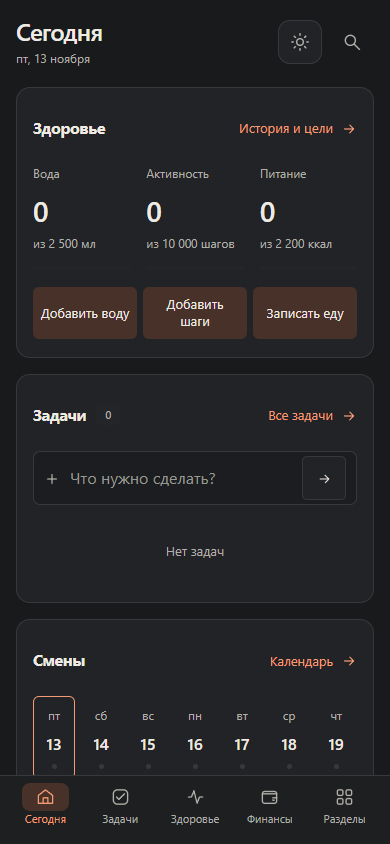
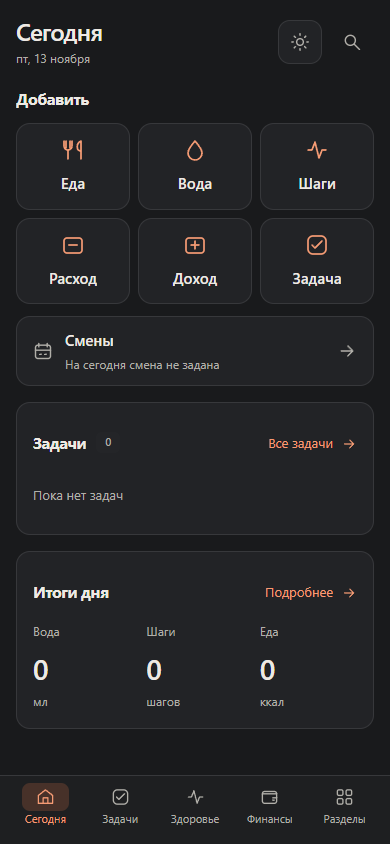
Simplify Today with visible food, water, task and finance actions (3.4)

diff --git a/index.html b/index.html
@@ -21,8 +21,8 @@
     <link rel="apple-touch-icon" href="icon-512.png">
     <link rel="icon" type="image/svg+xml" href="icon.svg">
     <script defer src="vendor/crypto-js.min.js"></script>
-    <link rel="stylesheet" href="styles.css?v=3.3">
-    <link rel="stylesheet" href="experience.css?v=3.3">
+    <link rel="stylesheet" href="styles.css?v=3.4">
+    <link rel="stylesheet" href="experience.css?v=3.4">
 </head>
 <body>
 
@@ -54,13 +54,31 @@
     </div>
 
     <main id="dashboard-page" class="page">
+        <section class="home-capture" aria-labelledby="capture-title">
+            <h2 id="capture-title">Добавить</h2>
+            <div class="home-actions">
+                <button onclick="openTodayHealth('food')" aria-label="Записать еду"><span data-icon="food"></span><span>Еда</span></button>
+                <button onclick="openDailyMetric('water',true)" aria-label="Добавить воду"><span data-icon="drop"></span><span>Вода</span></button>
+                <button onclick="openDailyMetric('steps',true)" aria-label="Добавить шаги"><span data-icon="activity"></span><span>Шаги</span></button>
+                <button onclick="openHomeBudget('expense')" aria-label="Добавить расход"><span data-icon="expense"></span><span>Расход</span></button>
+                <button onclick="openHomeBudget('income')" aria-label="Добавить доход"><span data-icon="income"></span><span>Доход</span></button>
+                <button onclick="openFocusTask()" aria-label="Добавить задачу"><span data-icon="check"></span><span>Задача</span></button>
+            </div>
+        </section>
+        <button class="home-shifts" onclick="showSection('calendar-page')"><span data-icon="calendar"></span><span><strong>Смены</strong><small id="shift-description"></small></span><span data-icon="arrow"></span></button>
         <div class="workspace-grid">
-            <section class="card focus-card"><div class="section-top"><h2>Задачи <span id="focus-count" class="count-badge">0</span></h2><button class="text-button" onclick="showSection('planner-page')">Все задачи <span data-icon="arrow"></span></button></div><div id="focus-list"></div><form class="focus-form" onsubmit="addFocusTask(event)"><span data-icon="plus"></span><input id="focus-input" placeholder="Что нужно сделать?" aria-label="Новая задача" maxlength="500" autocomplete="off"><button type="submit" aria-label="Добавить задачу"><span data-icon="arrow"></span></button></form></section>
-            <section class="card rhythm-card"><div class="section-top"><h2>Смены</h2><button class="text-button" onclick="showSection('calendar-page')">Календарь <span data-icon="arrow"></span></button></div><div class="week-strip" id="week-strip"></div><p id="shift-description" class="helper-description"></p></section>
-            <section class="card daily-health"><div class="section-top"><h2>Здоровье</h2><button class="text-button" onclick="openTodayHealth()">История и цели <span data-icon="arrow"></span></button></div><div class="health-metrics"><div class="health-metric water"><span class="metric-label">Вода</span><strong id="daily-water">0</strong><small id="daily-water-goal"></small><div class="progress-track" role="progressbar" aria-label="Вода: процент цели" aria-valuemin="0" aria-valuemax="100" aria-valuenow="0"><div id="daily-water-bar" class="progress-fill"></div></div></div><div class="health-metric steps"><span class="metric-label">Активность</span><strong id="daily-steps">0</strong><small id="daily-steps-goal"></small><div class="progress-track" role="progressbar" aria-label="Активность: процент цели" aria-valuemin="0" aria-valuemax="100" aria-valuenow="0"><div id="daily-steps-bar" class="progress-fill"></div></div></div><div class="health-metric cal"><span class="metric-label">Питание</span><strong id="daily-cal">0</strong><small id="daily-cal-goal"></small><div class="progress-track" role="progressbar" aria-label="Питание: процент цели" aria-valuemin="0" aria-valuemax="100" aria-valuenow="0"><div id="daily-cal-bar" class="progress-fill"></div></div></div></div><div class="quick-capture"><button onclick="openDailyMetric('water',true)">Добавить воду</button><button onclick="openDailyMetric('steps',true)">Добавить шаги</button><button onclick="openTodayHealth('food')">Записать еду</button></div></section>
-            <section class="card month-card"><div class="section-top"><h2>Финансы</h2><span id="finance-month" class="quiet-badge"></span></div><div class="money-line"><span>Доходы</span><strong id="finance-income">0 ₽</strong></div><div class="money-line"><span>Расходы</span><strong id="finance-expense">0 ₽</strong></div><button class="text-button" onclick="showSection('budget-page')">Перейти к финансам <span data-icon="arrow"></span></button></section>
+            <section class="card focus-card"><div class="section-top"><h2>Задачи <span id="focus-count" class="count-badge">0</span></h2><button class="text-button" onclick="showSection('planner-page')">Все задачи <span data-icon="arrow"></span></button></div><div id="focus-list"></div></section>
+            <section class="card daily-health"><div class="section-top"><h2>Итоги дня</h2><button class="text-button" onclick="openTodayHealth()">Подробнее <span data-icon="arrow"></span></button></div><div class="health-metrics"><div class="health-metric"><span class="metric-label">Вода</span><strong id="daily-water">0</strong><small>мл</small></div><div class="health-metric"><span class="metric-label">Шаги</span><strong id="daily-steps">0</strong><small>шагов</small></div><div class="health-metric"><span class="metric-label">Еда</span><strong id="daily-cal">0</strong><small>ккал</small></div></div></section>
         </div>
     </main>
+
+    <dialog id="task-dialog" class="metric-dialog" aria-labelledby="task-dialog-title">
+        <form onsubmit="addFocusTask(event)">
+            <div class="section-top"><h2 id="task-dialog-title">Новая задача</h2><button type="button" class="icon-button" aria-label="Закрыть" onclick="document.getElementById('task-dialog').close()"><span data-icon="close"></span></button></div>
+            <label for="focus-input">Что нужно сделать?</label><input id="focus-input" placeholder="Например: забрать заказ" maxlength="500" autocomplete="off" required>
+            <button type="submit" class="btn">Добавить задачу</button>
+        </form>
+    </dialog>
 
     <div id="more-page" class="page"></div>
 
@@ -586,10 +604,10 @@
         </div>
     </div>
 
-    <script defer src="food-config.js?v=3.3"></script>
-    <script defer src="food-ai.js?v=3.3"></script>
-    <script defer src="app.js?v=3.3"></script>
-    <script defer src="workspace.js?v=3.3"></script>
-    <script defer src="experience.js?v=3.3"></script>
+    <script defer src="food-config.js?v=3.4"></script>
+    <script defer src="food-ai.js?v=3.4"></script>
+    <script defer src="app.js?v=3.4"></script>
+    <script defer src="workspace.js?v=3.4"></script>
+    <script defer src="experience.js?v=3.4"></script>
 </body>
 </html>

diff --git a/experience.css b/experience.css
@@ -44,47 +44,33 @@ body.is-unlocked { padding:32px 32px 48px 244px; }
 .workspace-grid>.card { margin:0; }
 .focus-card { grid-column:1; grid-row:1; display:flex; flex-direction:column; }
 .daily-health { grid-column:2; grid-row:1; }
-.rhythm-card { grid-column:1; grid-row:2; }
-.month-card { grid-column:2; grid-row:2; }
+.home-capture { margin-bottom:12px; }
+.home-capture h2 { margin:0 0 12px; font-size:16px; }
+.home-actions { display:grid; grid-template-columns:repeat(6,minmax(0,1fr)); gap:10px; }
+.home-actions button { display:flex; flex-direction:column; align-items:center; justify-content:center; gap:10px; min-height:94px; padding:14px 8px; border:1px solid var(--border); border-radius:14px; background:var(--card-bg); color:var(--text-main); font-size:15px; font-weight:550; }
+.home-actions button>span:first-child { display:flex; color:var(--accent); }
+.home-actions svg { width:24px; height:24px; }
+.home-actions button:hover,.home-shifts:hover { background:var(--hover-bg); }
+.home-actions button:active { transform:scale(.97); }
+.home-shifts { display:flex; align-items:center; gap:12px; width:100%; min-height:64px; margin:0 0 20px; padding:12px 16px; text-align:left; color:var(--text-main); background:var(--card-bg); border:1px solid var(--border); border-radius:14px; }
+.home-shifts>span:first-child,.home-shifts>span:last-child { display:flex; color:var(--text-muted); }
+.home-shifts>span:last-child { margin-left:auto; }
+.home-shifts svg { width:20px; height:20px; }
+.home-shifts strong { display:block; font-size:15px; font-weight:550; }
+.home-shifts small { display:block; margin-top:3px; font-size:12px; color:var(--text-muted); }
 #focus-list { flex:1; }
+.focus-card .section-top,.daily-health .section-top { margin-bottom:8px; }
+.focus-card .empty-state { padding:12px 0; text-align:left; }
 .empty-state { padding:24px 0; color:var(--text-muted); font-size:13px; text-align:center; }
 .empty-state h3 { font-size:13px; font-weight:500; }
 .empty-state p { margin-top:6px; font-size:12px; }
 .empty-symbol { display:none; }
-.focus-form { display:flex; align-items:center; gap:10px; padding:0 10px; border:1px solid var(--border); border-radius:7px; margin-top:18px; background:var(--input-bg); color:var(--text-muted); }
-.focus-form>span svg { width:16px; }
-.focus-form input { flex:1; border:0; margin:0; padding:12px 0; background:none; font-size:13px; }
-.focus-form button { width:30px; height:30px; background:var(--card-bg); border:1px solid var(--border); color:var(--text-main); border-radius:5px; }
-.focus-form button svg { width:15px; }
 .focus-task { display:flex; align-items:center; gap:12px; padding:12px 0; margin:0; border-bottom:1px solid var(--border); color:var(--text-main); cursor:pointer; }
 .focus-task span { overflow-wrap:anywhere; }
-.week-strip { display:grid; grid-template-columns:repeat(7,minmax(0,1fr)); gap:5px; }
-.week-day { display:flex; flex-direction:column; align-items:center; gap:8px; padding:9px 2px; background:none; border:1px solid transparent; border-radius:6px; color:var(--text-main); }
-.week-day span { color:var(--text-muted); font-size:12px; }
-.week-day strong { font-size:16px; font-weight:500; }
-.week-day.is-today { border-color:var(--accent); }
-.shift-dot { display:inline-block; width:5px; height:5px; border-radius:50%; background:var(--border); }
-.shift-dot.day { background:var(--warning); }
-.shift-dot.night { background:var(--purple); }
-.shift-dot.off { background:var(--success); }
-.rhythm-card .helper-description { margin:16px 0 0; font-size:12px; }
 .health-metrics { display:grid; grid-template-columns:repeat(3,minmax(0,1fr)); gap:18px; }
-.health-icon { display:none; }
 .metric-label { display:block; color:var(--text-muted); font-size:12px; }
 .health-metric>strong { display:block; font-size:25px; font-weight:550; letter-spacing:-.6px; margin:8px 0 2px; }
 .health-metric small { display:block; color:var(--text-muted); font-size:11px; }
-.health-metric .progress-track { height:3px; margin-top:14px; }
-.water .progress-fill { background:#8aafc0; }
-.steps .progress-fill { background:#8eab85; }
-.cal .progress-fill { background:#d6af86; }
-.quick-capture { display:flex; gap:8px; margin-top:22px; }
-.quick-capture button { flex:1; min-height:38px; background:var(--card-bg); border:1px solid var(--border); border-radius:6px; padding:8px 4px; color:var(--text-main); font-size:12px; }
-.quick-capture button:hover { background:var(--hover-bg); }
-.money-line { display:flex; align-items:center; justify-content:space-between; gap:12px; padding:9px 0; font-size:13px; }
-.money-line>span { color:var(--text-muted); }
-.money-line strong { font-size:18px; font-weight:550; }
-.money-icon { display:none; }
-.month-card>.text-button { margin-top:14px; }
 .quiet-badge { background:none; font-size:12px; padding:0; }
 .task-toolbar { display:flex; align-items:center; gap:16px; margin-bottom:20px; }
 .task-toolbar .segmented-control { flex:1; margin:0; }
@@ -151,7 +137,6 @@ kbd { border:1px solid var(--border); border-radius:4px; padding:2px 5px; font-s
 .secondary-settings summary { cursor:pointer; font-size:15px; font-weight:600; }
 .details-content { padding-top:18px; }
 .task-entry { margin-bottom:16px; }
-.focus-form { margin:0 0 12px; }
 .theme-picker .segmented-control button { min-height:44px; }
 .settings-save { position:sticky; top:max(8px,env(safe-area-inset-top)); z-index:20; margin:0; box-shadow:0 0 0 6px var(--bg-base); }
 .metric-dialog { max-height:calc(var(--visible-height,100dvh) - 32px); overflow-y:auto; }
@@ -176,7 +161,7 @@ html { scroll-padding-bottom:110px; }
   #toast-box { bottom:90px; }
 }
 @media(max-width:620px) {
-  input,select,textarea,.focus-form input,.task-toolbar input { font-size:16px!important; }
+  input,select,textarea,.task-toolbar input { font-size:16px!important; }
   button,.btn,.text-button,.icon-button,.icon-btn-sm,.del-btn,.segmented-control button,.metric-presets button { min-height:44px; }
   .icon-button,.icon-btn-sm,.del-btn { min-width:44px; }
   .btn { padding:12px 14px; font-size:15px; }
@@ -195,17 +180,12 @@ html { scroll-padding-bottom:110px; }
   .page-heading h1 { font-size:24px; }
   .today-chip { font-size:12px; }
   .workspace-grid { display:flex; flex-direction:column; gap:16px; }
-  .focus-card { order:1; }
-  .daily-health { order:0; }
-  .rhythm-card { order:2; }
-  .month-card { order:3; }
+  .home-actions { grid-template-columns:repeat(3,minmax(0,1fr)); gap:8px; }
+  .home-actions button { min-height:84px; }
+  .home-shifts { margin-bottom:16px; }
   .health-metrics { gap:16px; }
-  .quick-capture { margin-top:18px; gap:6px; }
-  .quick-capture button { font-size:13px; min-height:48px; padding:8px 6px; line-height:1.3; background:var(--active-bg); border-color:transparent; color:var(--text-main); }
   .health-metric small { font-size:12px; }
   .health-metric>strong { font-size:28px; }
-  .focus-form button { width:44px; height:44px; flex-shrink:0; }
-  .focus-form input { padding:14px 0; }
   .task-toolbar { flex-direction:column; align-items:stretch; gap:12px; }
   .tools-grid { grid-template-columns:1fr; }
   #health-page.active,#settings-page.active,#calendar-page.active { grid-template-columns:1fr; }

diff --git a/workspace.js b/workspace.js
@@ -54,7 +54,6 @@ function mountWorkspace() {
     const history = document.getElementById('daily-history-list').closest('.card');
     history.classList.add('health-history');
     document.getElementById('health-page').querySelector('.card').after(history);
-    document.querySelector('.focus-card .section-top').after(document.querySelector('.focus-form'));
     const saveSettingsButton = document.querySelector('#settings-page > button[onclick="saveSettings()"]');
     saveSettingsButton.classList.add('settings-save');
     document.querySelector('#settings-page .page-heading').after(saveSettingsButton);
@@ -90,13 +89,22 @@ function focusBudgetEntry(type) {
     document.getElementById('tx-amount').focus({preventScroll:true});
 }
 
+function openHomeBudget(type) {
+    if (!masterKey) return;
+    showSection('budget-page');
+    document.getElementById('tx-date').value = getFormattedDate(new Date());
+    focusBudgetEntry(type);
+}
+
+function openFocusTask() {
+    if (!masterKey) return;
+    document.getElementById('task-dialog').showModal();
+    document.getElementById('focus-input').focus();
+}
+
 function getWorkspaceSummary(source, date) {
-    const month = date.slice(0, 7);
-    const transactions = (source.budget?.transactions || []).filter(t => t.date?.startsWith(month));
-    const income = transactions.filter(t => t.type === 'income').reduce((s,t) => s + Number(t.amount || 0), 0);
-    const expense = transactions.filter(t => t.type !== 'income').reduce((s,t) => s + Number(t.amount || 0), 0);
     const activeTasks = (source.tasks || []).map((task, index) => ({...task, index})).filter(t => !t.done);
-    return { income, expense, balance: income - expense, activeTasks, day: source.days?.[date] || {}, shift: source.shifts?.[date] || '' };
+    return { activeTasks, day: source.days?.[date] || {}, shift: source.shifts?.[date] || '' };
 }
 
 function renderWorkspace() {
@@ -104,27 +112,11 @@ function renderWorkspace() {
     const summary = getWorkspaceSummary(data, today);
     document.getElementById('helper-greeting').textContent = new Date().toLocaleDateString('ru-RU', {day:'numeric',month:'long',weekday:'short'});
     document.getElementById('focus-count').textContent = summary.activeTasks.length;
-    document.getElementById('focus-list').innerHTML = summary.activeTasks.length ? summary.activeTasks.slice(0,4).map(t => `<label class="focus-task"><input type="checkbox" onchange="toggleWorkspaceTask(${t.index})"><span>${escapeHtml(t.text)}</span></label>`).join('') : '<p class="empty-state">Нет задач</p>';
-    document.getElementById('finance-income').textContent = formatHelperMoney(summary.income);
-    document.getElementById('finance-expense').textContent = formatHelperMoney(summary.expense);
-    document.getElementById('finance-month').textContent = new Date().toLocaleDateString('ru-RU',{month:'long'});
-    const profile = data.profile || {};
-    const metrics = [['water',summary.day.water || 0,profile.targetWater || 2500,'мл'],['steps',summary.day.steps || 0,profile.targetSteps || 10000,'шагов'],['cal',summary.day.calories || 0,profile.targetCal || 2200,'ккал']];
-    for (const [key,value,target,unit] of metrics) {
+    document.getElementById('focus-list').innerHTML = summary.activeTasks.length ? summary.activeTasks.slice(0,3).map(t => `<label class="focus-task"><input type="checkbox" onchange="toggleWorkspaceTask(${t.index})"><span>${escapeHtml(t.text)}</span></label>`).join('') : '<p class="empty-state">Пока нет задач</p>';
+    const metrics = [['water',summary.day.water || 0],['steps',summary.day.steps || 0],['cal',summary.day.calories || 0]];
+    for (const [key,value] of metrics) {
         document.getElementById(`daily-${key}`).textContent = new Intl.NumberFormat('ru-RU').format(value);
-        document.getElementById(`daily-${key}-goal`).textContent = `из ${new Intl.NumberFormat('ru-RU').format(target)} ${unit}`;
-        const percent = Math.min(100, Math.max(0, value / target * 100));
-        const progress = document.getElementById(`daily-${key}-bar`);
-        progress.style.width = `${percent}%`;
-        progress.parentElement.setAttribute('aria-valuenow', Math.round(percent));
     }
-    const week = [];
-    for (let offset = 0; offset < 7; offset++) {
-        const day = new Date(); day.setDate(day.getDate() + offset);
-        const value = data.shifts?.[getFormattedDate(day)];
-        week.push(`<button class="week-day ${offset === 0 ? 'is-today' : ''}" onclick="showSection('calendar-page')" aria-label="${day.toLocaleDateString('ru-RU')} — ${({day:'Дневная смена',night:'Ночная смена',off:'Выходной'})[value] || 'Без смены'}"><span>${day.toLocaleDateString('ru-RU',{weekday:'short'})}</span><strong>${day.getDate()}</strong><i class="shift-dot ${value || 'none'}"></i></button>`);
-    }
-    document.getElementById('week-strip').innerHTML = week.join('');
     document.getElementById('shift-description').textContent = ({day:'Дневная смена',night:'Ночная смена',off:'Выходной'})[summary.shift] || 'На сегодня смена не задана';
     document.getElementById('task-nav-count').textContent = summary.activeTasks.length || '';
 }
@@ -133,7 +125,7 @@ function addFocusTask(event) {
     event.preventDefault();
     const input = document.getElementById('focus-input');
     const text = input.value.trim();
-    if (createTask(text)) { input.value = ''; renderWorkspace(); showToast('Задача добавлена'); }
+    if (createTask(text)) { input.value = ''; document.getElementById('task-dialog').close(); renderWorkspace(); showToast('Задача добавлена'); }
 }
 function toggleWorkspaceTask(index) { toggleTask(index); showToast('Задача выполнена'); }
 function setTaskFilter(filter) { taskFilter = filter; renderPlanner(); }

diff --git a/experience.js b/experience.js
@@ -1,6 +1,8 @@
 'use strict';
 
 const helperIcons = {
+    expense: '<rect x="3" y="5" width="18" height="15" rx="3"/><path d="M8 12h8"/>',
+    income: '<rect x="3" y="5" width="18" height="15" rx="3"/><path d="M8 12h8m-4-4v8"/>',
     moon: '<path d="M20 14a8 8 0 0 1-10-10 8 8 0 1 0 10 10Z"/>',
     sun: '<circle cx="12" cy="12" r="4"/><path d="M12 2v2m0 16v2M2 12h2m16 0h2M5 5l1.5 1.5m11 11L19 19M5 19l1.5-1.5m11-11L19 5"/>',
     eye: '<path d="M2 12s4-7 10-7 10 7 10 7-4 7-10 7S2 12 2 12Z"/><circle cx="12" cy="12" r="3"/>',
@@ -218,7 +220,6 @@ function renderExperience(pageId) {
     renderWorkspace();
 
 }
-function formatHelperMoney(value) { return new Intl.NumberFormat('ru-RU', { style: 'currency', currency: 'RUB', maximumFractionDigits: 0 }).format(value); }
 
 
 setupExperience();

diff --git a/sw.js b/sw.js
@@ -1,15 +1,15 @@
-const CACHE_VERSION = 'helper-v3.3';
+const CACHE_VERSION = 'helper-v3.4';
 const PRECACHE = [
   './',
   './index.html',
   './manifest.json',
-  './styles.css?v=3.3',
-  './experience.css?v=3.3',
-  './app.js?v=3.3',
-  './food-config.js?v=3.3',
-  './food-ai.js?v=3.3',
-  './experience.js?v=3.3',
-  './workspace.js?v=3.3',
+  './styles.css?v=3.4',
+  './experience.css?v=3.4',
+  './app.js?v=3.4',
+  './food-config.js?v=3.4',
+  './food-ai.js?v=3.4',
+  './experience.js?v=3.4',
+  './workspace.js?v=3.4',
   './icon.svg',
   './icon-512.png',
   './vendor/crypto-js.min.js'

diff --git a/app.js b/app.js
@@ -191,6 +191,7 @@ let data = {
         function lockVault() {
             cancelFoodAnalysis();
             document.getElementById('metric-dialog')?.close();
+            document.getElementById('task-dialog')?.close();
             metricEntry = null;
             masterKey = "";
             data = {

diff --git a/README.md b/README.md
@@ -1,4 +1,4 @@
-# Helper 3.3
+# Helper 3.4
 
 Личное пространство для задач, здоровья, смен, финансов и паролей. Спокойный интерфейс, локальное зашифрованное хранилище и работа без сети.
 
@@ -8,11 +8,12 @@
 
 ## Что изменилось
 
-- На iPhone вода, шаги и еда видны в первом блоке главной. В задачах сначала ввод, в сменах — календарь; шаблон и ставки раскрываются отдельно. В финансах есть заметные действия «Расход» и «Доход».
+- Главная начинается с шести действий: еда, вода, шаги, расход, доход и задача. Ниже — прямая кнопка смен, до трёх активных задач и короткие итоги дня. Все семь входов видны без прокрутки даже при размере экрана 320 × 568.
+- Вода, шаги и задача добавляются в диалоге поверх главной. Расход и доход сразу открывают ввод суммы с нужным типом операции и сегодняшней датой. Для еды открывается форма оценки. В сменах сначала календарь; шаблон и ставки раскрываются отдельно.
 - Переключение темы — кнопкой в шапке или в «Разделы → Тема». Светлая, тёмная и системная темы сохраняются между запусками и применяются до отрисовки экрана входа.
 - Увеличены основные зоны нажатия, поля не вызывают автоматическое приближение Safari. Учтены безопасные отступы iPhone, нижняя панель скрывается при открытой клавиатуре. Кнопка сохранения настроек остаётся доступна при прокрутке.
 - Компактный интерфейс без баннеров, лозунгов и повторяющихся сводок. Светлая и тёмная темы.
-- Четыре блока на главной: задачи, здоровье, смены и финансы. На телефоне меню «Разделы» открывает все функции напрямую.
+- Подробные графики, цели и финансовая сводка остаются в своих разделах; недельная лента и повторяющиеся шкалы убраны с главной.
 - Вода и шаги вводятся через общую форму: готовые значения или произвольное число. Запись сохраняется за явно указанную дату. В разделе здоровья все действия находятся рядом с выбором дня.
 - ИИ-оценка сначала показывает результат для проверки. Сохранение выполняется отдельной кнопкой. Ошибка сети, квота и неверный ключ имеют разные сообщения; описание не пропадает при сбое.
 - Задачи с быстрым вводом, поиском и фильтрами «В работе», «Готово», «Все».
